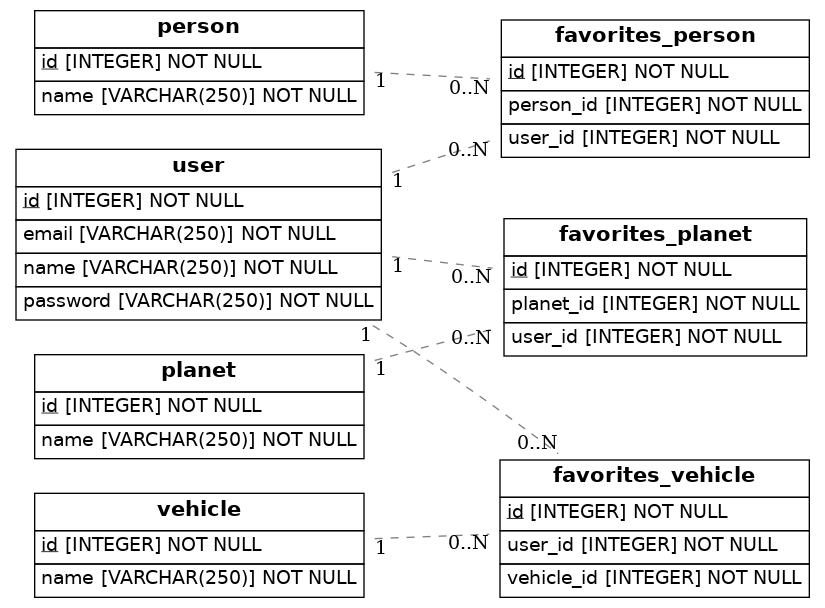
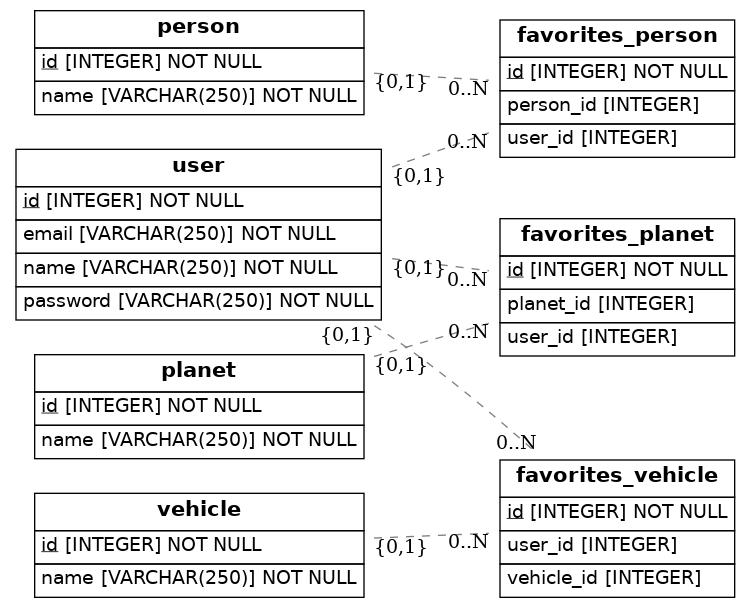
Relaciones finales

diff --git a/src/models.py b/src/models.py
@@ -15,8 +15,10 @@ class User(Base):
     name = Column(String(250), nullable=False)
     email = Column(String(250), nullable=False)
     password = Column(String(250), nullable=False)
-    favoritesPerson = relationship('FavoritesPerson', backref='user', lazy=True)
-    favorites = relationship('favorites', backref='user', lazy=True)
+    favorites_persons = relationship('FavoritesPerson', backref='user', lazy=True)
+    favorites_planets = relationship('FavoritesPlanet', backref='user', lazy=True)
+    favorites_vehicles = relationship('FavoritesVehicle', backref='user', lazy=True)
+
 
 class Person(Base):
     __tablename__ = 'person'
@@ -24,7 +26,7 @@ class Person(Base):
     # Notice that each column is also a normal Python instance attribute.
     id = Column(Integer, primary_key=True)
     name = Column(String(250), nullable=False)
-    favorites = relationship('FavoritesPerson', backref='person', lazy=True)
+    Persons = relationship('Person', backref='person', lazy=True)
 
 class FavoritesPerson(Base):
     __tablename__ = 'favorites_person'
@@ -34,10 +36,12 @@ class FavoritesPerson(Base):
     # street_name = Column(String(250))
     # street_number = Column(String(250))
     # post_code = Column(String(250), nullable=False)
-    person_id = Column(Integer, ForeignKey('person.id'),nullable = False)
+    person_id = Column(Integer, ForeignKey('person.id'))
     person = relationship(Person)
-    user_id = Column(Integer, ForeignKey('user.id'),nullable = False)
+    user_id = Column(Integer, ForeignKey('user.id'))
     user = relationship(User)    
+    Persons = relationship('Person', backref='person', lazy=True)
+
 
 class Planet(Base):
     __tablename__ = 'planet'
@@ -45,7 +49,7 @@ class Planet(Base):
     # Notice that each column is also a normal Python instance attribute.
     id = Column(Integer, primary_key=True)
     name = Column(String(250), nullable=False)
-    favorites = relationship('favoritesPlanet', backref='planet', lazy=True)
+    favorites_planet = relationship('FavoritesPlanet', backref='planet', lazy=True)
 
 class FavoritesPlanet(Base):
     __tablename__ = 'favorites_planet'
@@ -55,9 +59,9 @@ class FavoritesPlanet(Base):
     # street_name = Column(String(250))
     # street_number = Column(String(250))
     # post_code = Column(String(250), nullable=False)
-    planet_id = Column(Integer, ForeignKey('planet.id'),nullable = False)
+    planet_id = Column(Integer, ForeignKey('planet.id'))
     planet = relationship(Planet)
-    user_id = Column(Integer, ForeignKey('user.id'),nullable = False)
+    user_id = Column(Integer, ForeignKey('user.id'))
     user = relationship(User)
 
 class Vehicle(Base):
@@ -66,7 +70,7 @@ class Vehicle(Base):
     # Notice that each column is also a normal Python instance attribute.
     id = Column(Integer, primary_key=True)
     name = Column(String(250), nullable=False)
-    favorites = relationship('favorites', backref='vehicle', lazy=True)   
+    favorites_vehicles = relationship('FavoritesVehicle', backref='vehicle', lazy=True)   
 
 class FavoritesVehicle(Base):
     __tablename__ = 'favorites_vehicle'
@@ -76,9 +80,9 @@ class FavoritesVehicle(Base):
     # street_name = Column(String(250))
     # street_number = Column(String(250))
     # post_code = Column(String(250), nullable=False)
-    vehicle_id = Column(Integer, ForeignKey('vehicle.id'),nullable = False)
+    vehicle_id = Column(Integer, ForeignKey('vehicle.id'))
     vehicle = relationship(Vehicle)
-    user_id = Column(Integer, ForeignKey('user.id'),nullable = False)
+    user_id = Column(Integer, ForeignKey('user.id'))
     user = relationship(User)
 
     def to_dict(self):
